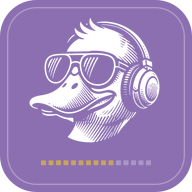
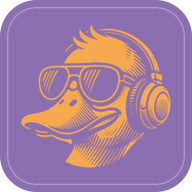
v0.5.36: The duck, bolder and in orange
A Mandarin duck's orange on the plum, the line art thickened, centred on
the duck itself and larger, the level meter gone: the duck alone is the
icon, on the launcher and the web app alike.

Claude-Session: https://claude.ai/code/session_01Jw4NmEd2QacZMwJqThNaYg

diff --git a/public/index.html b/public/index.html
@@ -34,12 +34,12 @@
        confirmed correct. Cost meanwhile: Android and desktop lose the
        install prompt. iOS is unaffected — it takes the icon from
        rel="apple-touch-icon" below, which is why the duck still appears. -->
-  <link rel="icon" href="/icons/favicon.ico?v=plum" sizes="any">
-  <link rel="icon" type="image/png" sizes="192x192" href="/icons/icon-192.png?v=plum">
+  <link rel="icon" href="/icons/favicon.ico?v=orange" sizes="any">
+  <link rel="icon" type="image/png" sizes="192x192" href="/icons/icon-192.png?v=orange">
   <!-- iOS reads only this one, ignores the manifest's icons, and composites
        any transparency onto white — so it is pre-flattened onto the logo's
        own black. -->
-  <link rel="apple-touch-icon" href="/icons/apple-touch-icon.png?v=plum">
+  <link rel="apple-touch-icon" href="/icons/apple-touch-icon.png?v=orange">
   <meta name="apple-mobile-web-app-title" content="Mandarin">
 
   <!-- DELIBERATELY ABSENT: apple-mobile-web-app-capable,
@@ -264,7 +264,7 @@
     <div class="menu-backdrop" data-menu-close></div>
     <nav class="menu-drawer">
       <div class="menu-head">
-        <span class="menu-brand"><img class="menu-brand-mark" src="/icons/icon-192.png?v=plum" alt="" width="30" height="30">Mandarin</span>
+        <span class="menu-brand"><img class="menu-brand-mark" src="/icons/icon-192.png?v=orange" alt="" width="30" height="30">Mandarin</span>
         <button class="icon-btn" type="button" aria-label="Close menu" data-menu-close>
           <svg width="20" height="20" viewBox="0 0 24 24" fill="none" stroke="currentColor"
                stroke-width="2" stroke-linecap="round" stroke-linejoin="round" aria-hidden="true">

diff --git a/docs/index.html b/docs/index.html
@@ -301,7 +301,7 @@
      the Android app. Hi-res to each device's own ceiling, upsampled if you like. No Roon, no
      Plex, no accounts. Definitely no nonsense about better sound quality.</p>
   <div class="badges">
-    <span class="badge">v0.5.35</span>
+    <span class="badge">v0.5.36</span>
     <span class="badge plain">Docker</span>
     <span class="badge plain">MIT</span>
     <span class="badge plain">Sonos</span>

diff --git a/CHANGELOG.md b/CHANGELOG.md
@@ -5,6 +5,11 @@ Versioning: each set of changes is a development build and takes the next third 
 `package.json`, the README title, the GitHub Pages badge and the Android app's
 `versionName` (plus `versionCode`) move together — `npm test` fails if they don't.
 
+## v0.5.36
+- **The duck, bolder and in orange.** A Mandarin duck's orange on the plum, the line art
+  thickened, centred on the duck itself and larger, and the level meter gone: the duck alone
+  is the icon, on the launcher and the web app alike.
+
 ## v0.5.35
 - **The icon in plum.** The duck is white now, on the plum of the transport controls, with the
   gold level meter kept: the Android launcher (square, round and adaptive), the web app's

diff --git a/README.md b/README.md
@@ -7,7 +7,7 @@
 
 </div>
 
-# Mandarin — v0.5.35
+# Mandarin — v0.5.36
 
 **Your own music files, played to Sonos rooms and to UPnP/DLNA streamers — a WiiM, a Chord Poly — with MusicD Remote's interface.**
 
